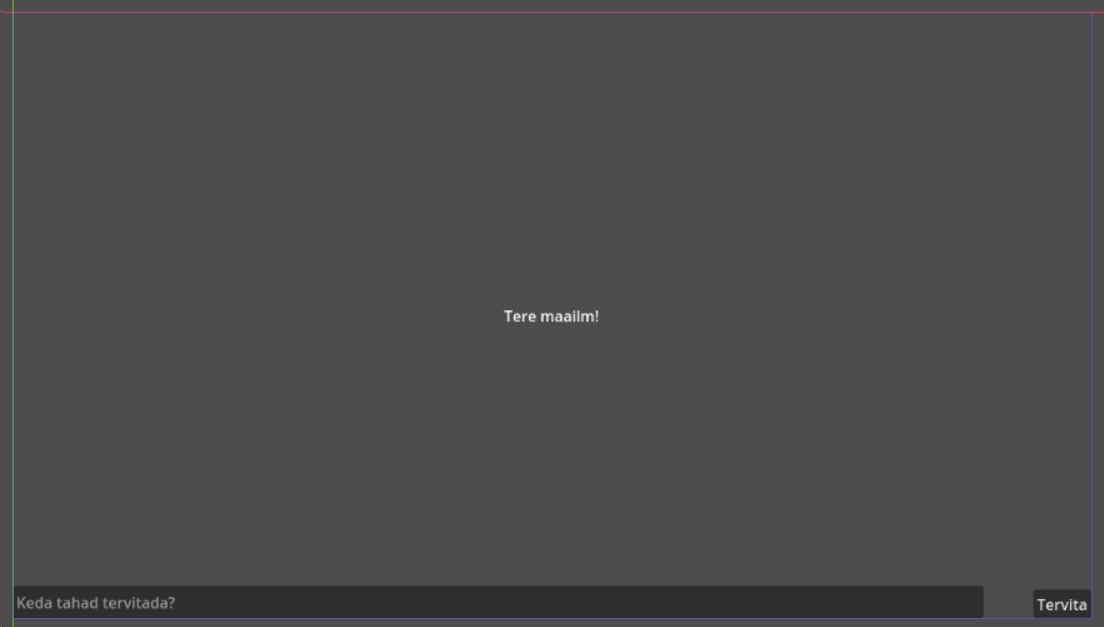
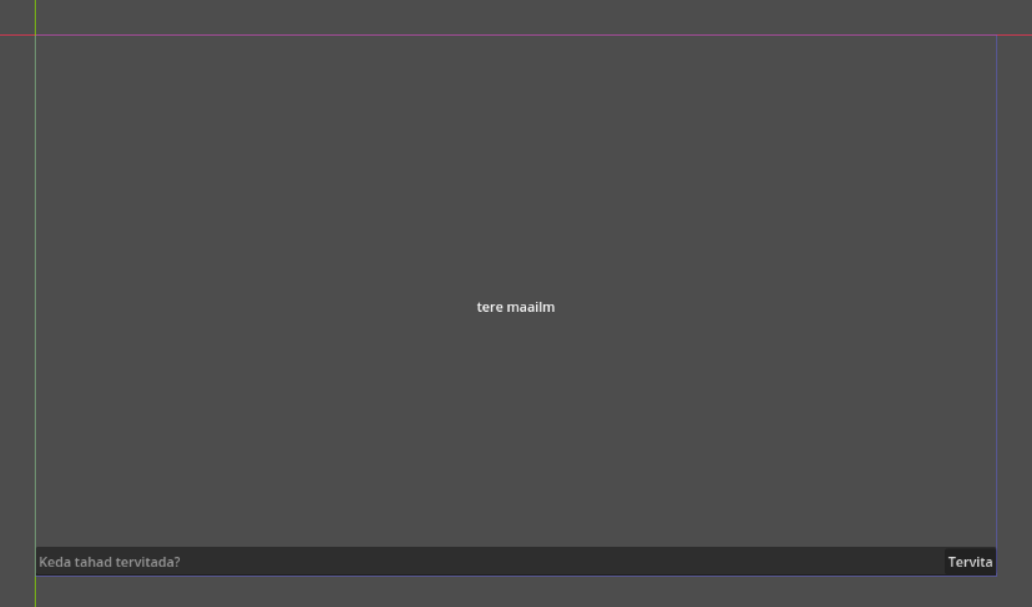
graafiline kasutajaliides alapeatykk peaks okei olema aga kell on 05:22

Changed region(s): [[0.0, 0.8896, 0.9922, 1.0], [0.0, 0.0, 1.0, 0.0593], [0.4651, 0.4745, 0.5271, 0.5338]]

diff --git a/esimene-programm/graafiline-kasutajaliides.md b/esimene-programm/graafiline-kasutajaliides.md
@@ -8,15 +8,14 @@ nav_order: 3
 {: .todo }
 See alapeatükk on töös!
 
--	Ankrute süsteemi pole vaja mainida algajale veel
--	Tere.gd mainimised `tere.gd`-ks ümber
 -	Argument ja parameeter - tee neil vahet
 
 # Graafiline kasutajaliides
 
+Selles osas on eesmärk eelnevas osas tutvustatud Label sõlm panna tervitama kasutaja sisestatud nime. Selleks kasutame paari uut sõlme ja õpime veidi Godot graafilise kasutajaliidese süsteemi.
+
 ## Sõlmed
 
-Selles osas on eesmärk eelnevas osas tutvustatud Label sõlm panna tervitama kasutaja sisestatud nime. Selleks kasutame paari uut sõlme ja õpime veidi Godot graafilise kasutajaliidese süsteemi.
 Kustuta praegune Label sõlm ja määra juursõlmeks hoopis Control. Lisa Control laps-sõlmedeks Label, TextEdit ja Button.
 
 ![Stseeni struktuur.](./pildid/graafiline-kasutajaliides/stseeni-struktuur.png)
@@ -35,25 +34,24 @@ Tahame teha nii, et teksti sisestamise riba ja nupp oleksid programmi allpool ja
 
 Graafilise kasutajaliidese sõlmed arvestavad erinevate mängu akna suurustega kasutades ankrute süsteemi. On neli ankrut - ülemine, alumine, vasak, parem. Ankru väärtus on tavaliselt 0 ja 1 vahel. Kui vasaku ankru väärtus on 0, tähendab see, et sõlme vasak külg alustab ekraani vasakust küljest. Kui see oleks 0.5, algaks sõlme vasak külg ekraani keskelt. Kui see oleks 1, algaks sõlme vasak külg ekraani paremast küljest.
 
-Vali Control sõlm tema peale klikkides ja inspektoris pane Control -> Layout -> Anchors Preset muutuja väärtuseks mall `Full Rect`. See teeb Control sõlme mängu akna suuruseks ja sätib ankrute väärtused järgmiseks:
+Vali Control sõlm ja inspektoris pane Control -> Layout -> Anchors Preset muutuja väärtuseks mall `Full Rect`. See teeb Control sõlme mängu akna suuruseks ja sätib ankrute väärtused järgmiseks:
 
 -   vasak ankur: 0 (sõlm algab ekraani vasakust äärest)
 -   ülemine ankur: 0 (sõlm algab ekraani ülemisest äärest)
 -   parem ankur: 1 (sõlm lõpeb ekraani paremas ääres)
 -   alumine ankur: 1 (sõlm lõpeb ekraani alumises ääres)
 
+![Pilt, mis aitab kujutab visuaalselt ankrute süsteemi.](./pildid/graafiline-kasutajaliides/ankrute-selgitus.png)
+
 Kuna tahame tervet mängu akna ala kasutada, siis Control sõlmele see sobib. Tahtsime, et Label oleks ekraani keskel. Selleks otsi üles Control -> Layout -> Layout Mode muutuja ja tee kindlaks, et tema väärtus oleks `Anchors`. Seejärel ilmub Anchors Preset muutuja taas selle alla. Milline väärtus sealt sobiks Labeli ekraani keskele sobitamiseks?
 
-Vastus on loomulikult `Center` - see hoiab Label sõlme nii horisontaalselt kui ka versikaalselt keskel. Kontrollimiseks võid Labelile jälle teksti `Tere maailm!` kirjutada. Pane tähele, et teksti juurde kirjutades ja ära kustutades püsib sõlm ikka ilusti ekraani keskel, kuigi tema suurus muutub. Tee sama Button sõlmega, aga aseta see hoopis paremasse alumisse nurka (väärtus `Bottom Right`). Tee ka nii, et see kuvaks teksti "Tervita". Saad seda teha samamoodi, nagu Label sõlmega.
+Vastus on loomulikult `Center` - see hoiab Label sõlme nii horisontaalselt kui ka versikaalselt keskel. Kontrollimiseks võid Labelile jälle teksti `Tere maailm!` kirjutada. Pane tähele, et teksti juurde kirjutades ja ära kustutades püsib sõlm ikka ilusti ekraani keskel, kuigi tema suurus muutub.
 
-TextEdit sõlmel pane muutuja Placeholder Text väärtuseks `Keda tahad tervitada?`. Kui kasutaja teksti sinna kirjutanud pole, siis seda sõnumit kuvatakse. Seejärel tegeleme TextEditi ankrutega. Pane temal Anchors Preset väärtuseks `Custom`. See paljastab palju uusi muutujaid täpsemalt ankrutega tegelemiseks. Tahame, et TextEdit oleks alumises ääres ja läheks nupuni välja. Seda saad teha järgmiste väärtustega:
+TextEdit sõlmel pane muutuja Placeholder Text väärtuseks `Keda tahad tervitada?`. Kui kasutaja teksti sinna kirjutanud pole, siis seda sõnumit kuvatakse. Tegeleme TextEditi ankrutega. Pane temal Anchors Preset väärtuseks `Bottom Wide`. See sätib ta ekraani allaossa, kogu ekraani pikkuseks. Hetkel pole asendusteksti näha. Selleks pead Anchor Offsets -> Top ehk ülemise ankru nihke väärtuseks panema näiteks -35 pikslit.
 
--   Anchor Points -> Left: 0 (vasak ankur)
--   Anchor Points -> Top: 1 (ülemine ankur)
--   Anchor Points -> Right: 0.9 (parem ankur)
--   Anchor Points -> Bottom: 1 (alumine ankur)
+Määra Button sõlm TextEditi lapseks, lohistades teda stseeni dokis hiirega või paremkliki menüü -> Reparent kaudu. Buttoni tekst olgu "Tervita" ja tema Anchor Preset olgu `Center Right`. See asetab ta TextEditi paremasse äärde. See juhtus, sest nüüd Button on piiratud TextEditi väiksesse alasse. Nii on ka TextEditi ja Label sõlmega - nemad on piiratud Control sõlme alasse ja kuna Control sõlm on selle stseeni juursõlm, siis tema piirang on projekti akna suurus.
 
-Meie asendusteksti pole aga näha. Selleks pead Anchor Offsets -> Top ehk ülemise ankru nihke väärtuseks panema näiteks -35 pikslit. Põhivaade peaks nüüd selline välja nägema:
+Põhivaade peaks nüüd selline välja nägema:
 
 ![Stseeni lõplik välimus.](./pildid/graafiline-kasutajaliides/stseeni-visuaal.png)
 
@@ -61,7 +59,7 @@ Meie asendusteksti pole aga näha. Selleks pead Anchor Offsets -> Top ehk ülemi
 
 ### Muutujad
 
-Vali Control juursõlm ja ühenda talle taas Tere.gd külge. Skripti ühendamise aken peaks mainima, et fail juba eksisteerib ning et seda taaskasutatakse. Vajuta nupu `Load` peale.
+Vali Control juursõlm ja ühenda talle taas `tere.gd` külge. Skripti ühendamise aken peaks mainima, et fail juba eksisteerib ning et seda taaskasutatakse. Vajuta nupu `Load` peale.
 
 ![Skripti ühendamise aken kirjutab, et skriptifail on juba olemas.](./pildid/graafiline-kasutajaliides/fail-eksisteerib.png)
 
@@ -110,7 +108,7 @@ Parem praktika on kasutada `@export` annotatsiooni, kuna selleks ei pea kirjutam
 @export var button: Button
 ```
 
-Lisaks on inspektori dokis ilmunud sektsioon nimega Tere.gd, kus on skripti `@export` annotatsiooniga avalikustatud muutujad. Pane tähele, et kuigi kirjutasid koodis `text_edit`, kuvatakse seda inspektoris kui Text Edit. Redaktor üritab muutuja nimed inspektoris loetavamaks teha. Vajutades nupule `Assign...` avaneb uus aken, kus on kujutatud kõik sinu stseenis sobivad sõlmed, mis selle muutuja väärtuseks võivad sobida. Meil on sobivaid sõlmi iga muutuja jaoks vaid üks. Vali õige sõlm ja kas topelt-kliki selle peal või vajuta all olevat `OK` nuppu.
+Lisaks on inspektori dokis ilmunud sektsioon nimega `tere.gd`, kus on skripti `@export` annotatsiooniga avalikustatud muutujad. Pane tähele, et kuigi kirjutasid koodis `text_edit`, kuvatakse seda inspektoris kui Text Edit. Redaktor üritab muutuja nimed inspektoris loetavamaks teha. Vajutades nupule `Assign...` avaneb uus aken, kus on kujutatud kõik sinu stseenis sobivad sõlmed, mis selle muutuja väärtuseks võivad sobida. Meil on sobivaid sõlmi iga muutuja jaoks vaid üks. Vali õige sõlm ja kas topelt-kliki selle peal või vajuta all olevat `OK` nuppu.
 
 ![@export annotatsiooniga muutujad on inspektoris nähtavad.](./pildid/graafiline-kasutajaliides/eksport-muutujad.png)
 
@@ -134,10 +132,14 @@ Nüüd peame välja nuputama, kuidas skriptis teha nii, et Buttoni nupuvajutuse 
 
 Kohe peaks näha olema Button sõlme erinevad signaalid, mida ta välja saadab. Meid huvitab signaal `pressed`, mis reageeribki Buttoni vajutuse peale. Signaali mingi sõlme skriptiga ühendamiseks on ka kaks viisi:
 
-1.	kirjutad selle koodis välja
-2.	teed seda graafilise kasutajaliidesega
+1.	teed seda graafilise kasutajaliidesega
+2.	kirjutad selle koodis välja
 
-Kursuse autori isiklik eelistus on esimene variant, kuna niikuinii peab signaaliga toimetamiseks koodi kirjutama. Õpime mõlemat tegema, aga edaspidi koodinäidetes on esimest varianti kasutatud. Esimese meetodiga näeks `_ready` funktsioon välja selline:
+Kursuse autori isiklik eelistus on teine variant, kuna niikuinii peab signaaliga toimetamiseks koodi kirjutama. Õpime mõlemat tegema, aga edaspidi koodinäidetes on esimest varianti kasutatud kursuse kasutaja mugavuseks.
+
+Esimene viis on sealsamas sõlme dokis topelt-klikkida `pressed` signaali peale. Seejärel avaneb aken, mis küsib detaile signaali sõlmega ühendamise kohta. Oluline on, et ta ühendaks Control sõlmega. Kõik muu võid jätta samaks. Seejärel vajuta nupule `Connect`. Skriptis on nüüd genereeritud algne `_on_button_pressed` funktsioon, aga signaali ühendusest skriptis endas tõendit ei ole, kuid redaktoris on, nii sõlme dokis kui ka stseeni dokis selle sõlme juures.
+
+Teise meetodiga näeks `_ready` funktsioon välja selline:
 
 ```gdscript
 func _ready() -> void:
@@ -149,8 +151,6 @@ func _on_button_pressed() -> void:
 ```
 
 Godot kolmandas versioonis ei saanud signaalidele ligi sedasi ja pidi jälle stringe kasutama, aga neljandas versioonis on see mugavamaks ja kindlamaks tehtud. Signaalidel on funktsioon `connect`, mille argumendiks on koodinäite lõpus deklareeritud `_on_button_pressed` funktsioon. Nii funktsioonidele kui ka signaalidele saab sedasi viidata neljandas versioonis. `connect` funktsioon teeb nii, et kui Buttonit vajutatakse, see laseb välja `pressed` signaali, mis on eelnevalt juba Control sõlmega ühendatud ja signaali peale kutsub Control sõlm välja oma funktsiooni `_on_button_pressed`.
-
-Teine viis on sealsamas sõlme dokis topelt-klikkida `pressed` signaali peale. Seejärel avaneb aken, mis küsib detaile signaali sõlmega ühendamise kohta. Oluline on, et ta ühendaks Control sõlmega. Kõik muu võid jätta samaks. Seejärel vajuta nupule `Connect`. Skriptis on nüüd genereeritud algne `_on_button_pressed` funktsioon, aga signaali ühendusest skriptis endas tõendit ei ole.
 
 `_process` funktsiooni pole meil selles skriptis vaja, kuna ta ei tee igal kaadril midagi uut. Proovi nüüd `_on_button_pressed` funktsioon panna Outputi mingit sõnumit väljastama `print` käsuga, et kindlaks teha, et nupuvajutuse peale tõesti saab Control sõlm signaali kätte ja reageerib sellele.
 
@@ -175,7 +175,7 @@ func _on_button_pressed() -> void:
 	text_edit.text = ""
 ```
 
-Nüüd on esimene projekt valmis. Käivita see, sisesta teksti ja vajuta nupule. Kui akna keskel kuvatav sõnum muutub, oled hakkama saanud! Lisaks peaks akna suurust muutes kõik sõlmed ilusti kaasa liikuma. Button on TextEditi sõlmest eespool, aga nende alad kattuvad väga väikse aknaga, sest Buttoni teksti suurus ei muutu.
+Nüüd on esimene projekt valmis. Käivita see, sisesta teksti ja vajuta nupule. Kui akna keskel kuvatav sõnum muutub, oled hakkama saanud! Lisaks peaks akna suurust muutes kõik sõlmed ilusti kaasa liikuma.
 
 ![Akna suuruse muutmine töötab, kui ta selline saab välja näha.](./pildid/graafiline-kasutajaliides/akna-suuruse-muutmine-tootab.png)
 
